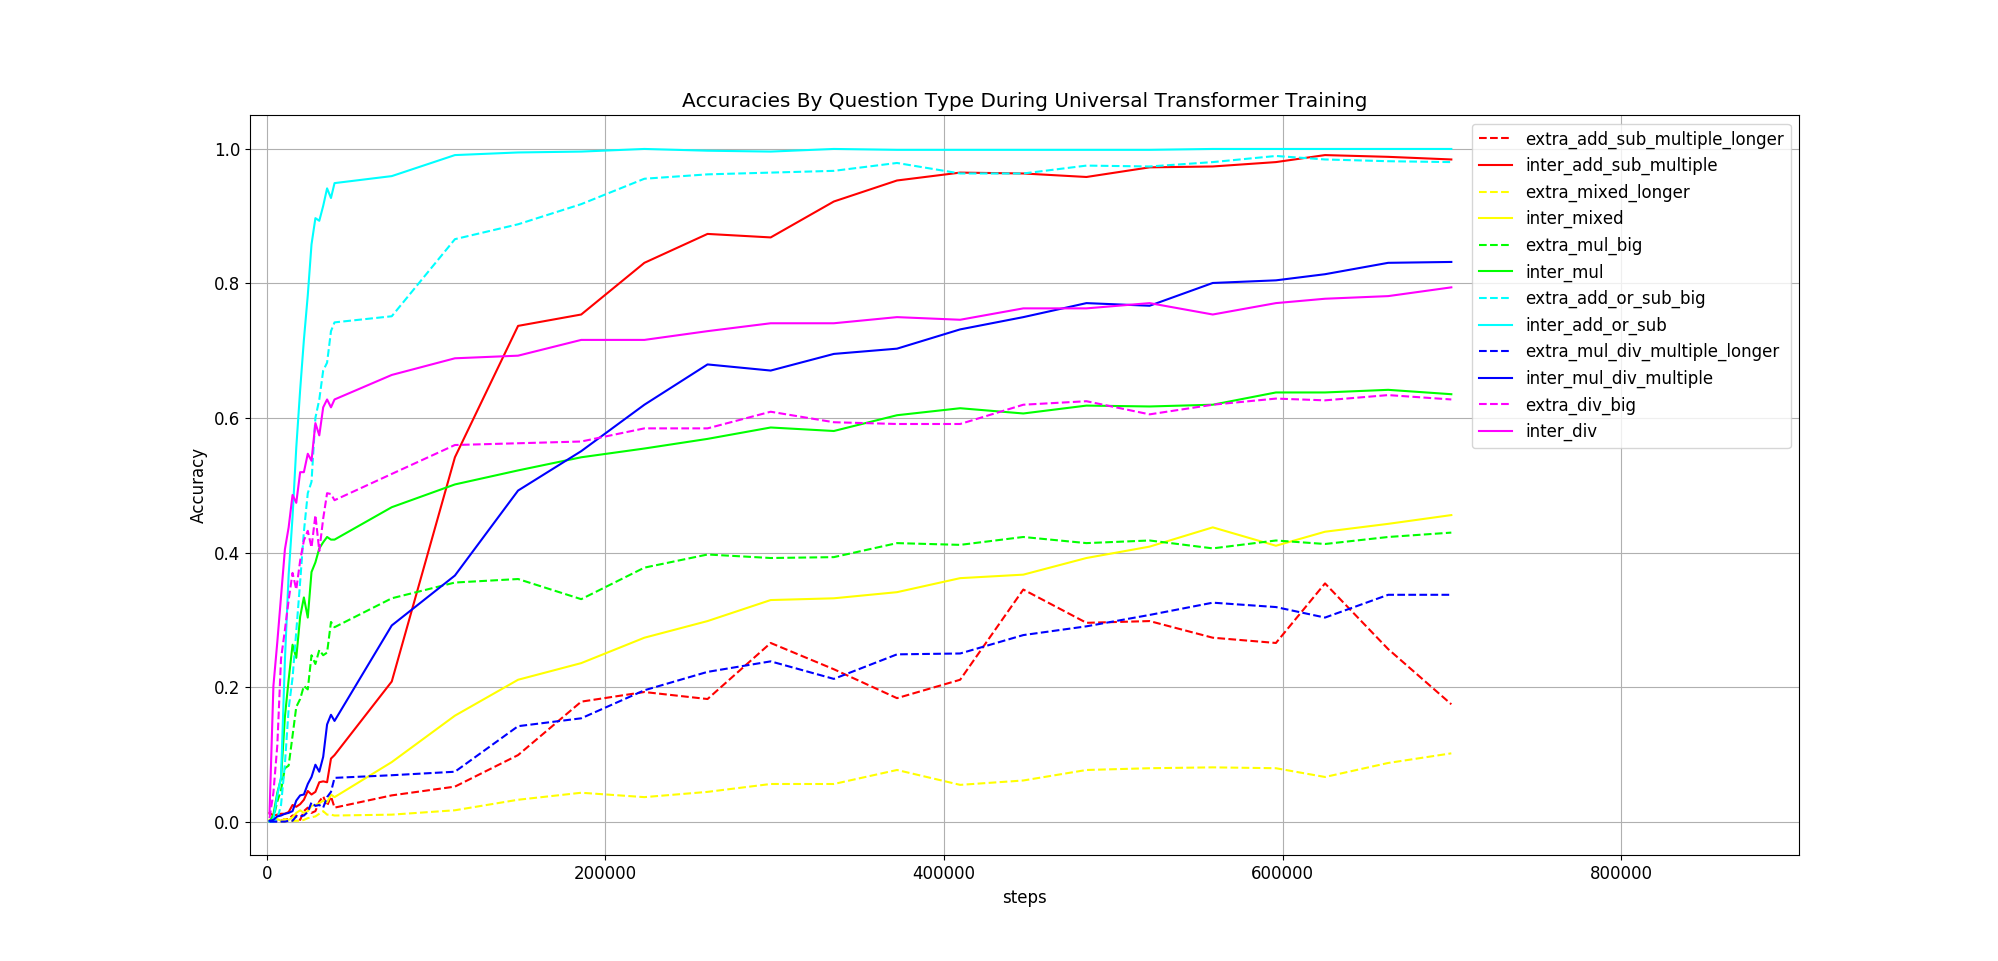
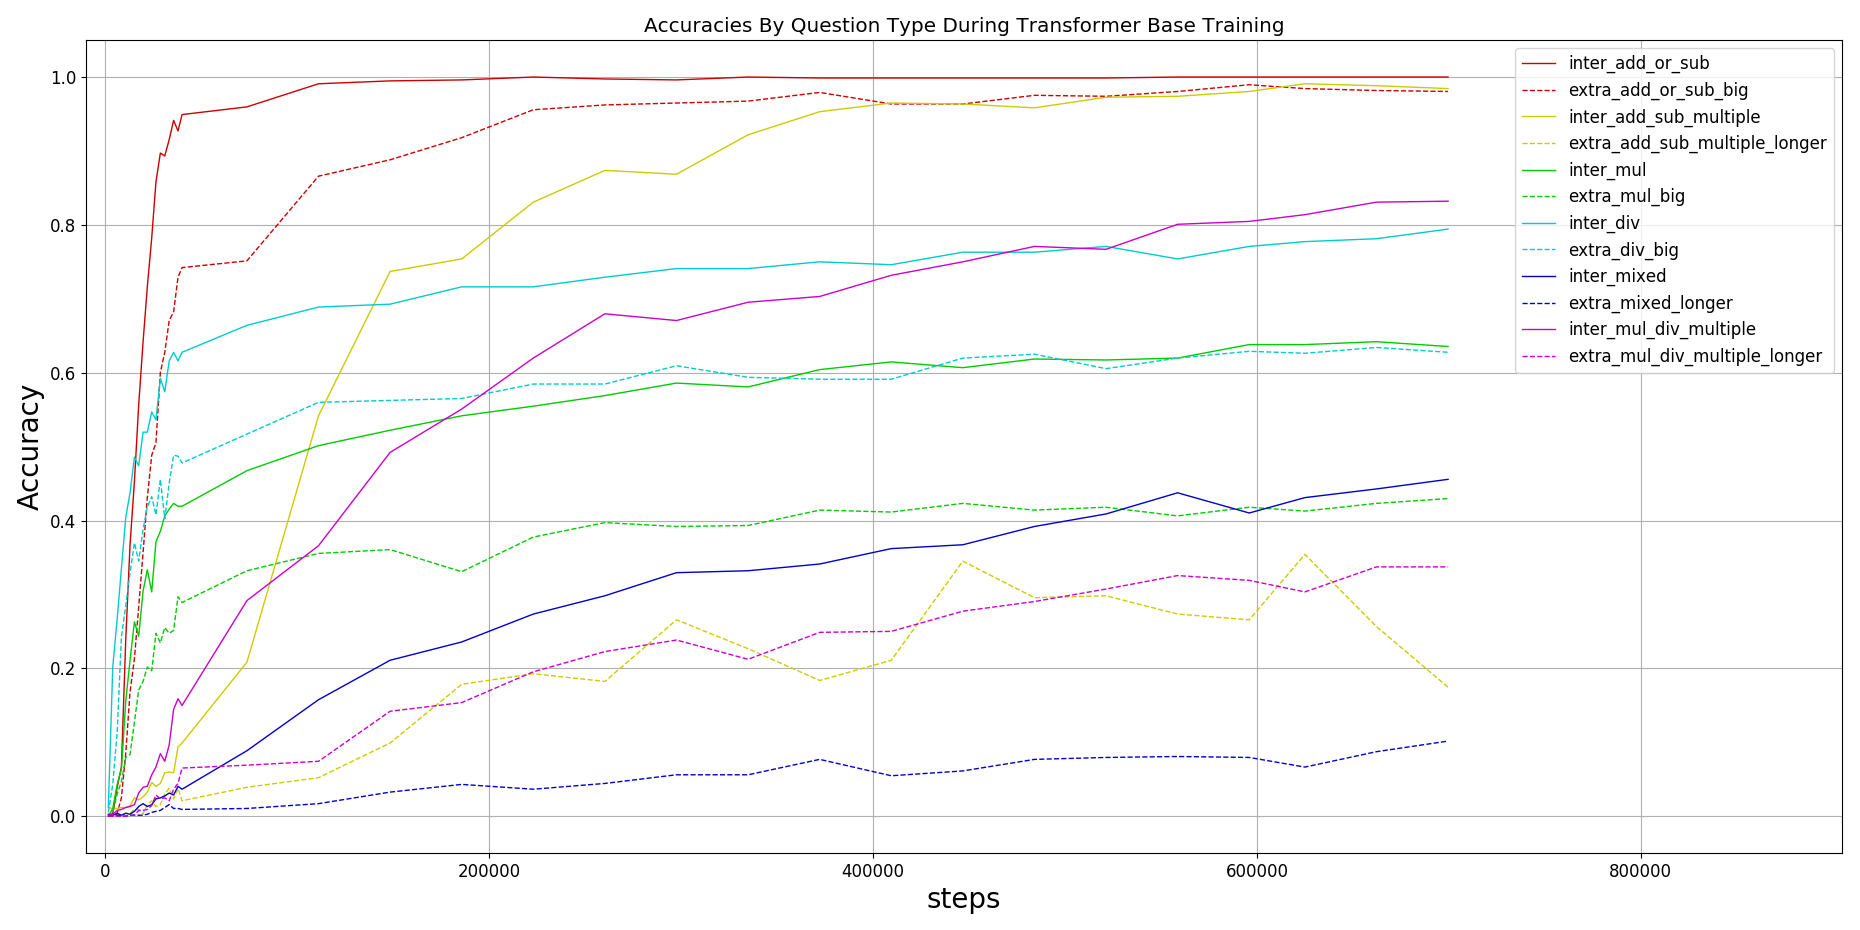
redone graphs

diff --git a/tensor2tensor/evaluation_results/read_and_plot_old.py b/tensor2tensor/evaluation_results/read_and_plot_old.py
@@ -45,6 +45,8 @@ dataset_splits_list = [
 	"extra_mixed_longer",			
 	"inter_mul_div_multiple",	
 	"extra_mul_div_multiple_longer",
+	# "single_inter",
+	# "single_extra",
 ]
 
 dataset_splits_dict = dict([(dataset_splits_list[i], i) for i in range(len(dataset_splits_list))])
@@ -71,11 +73,18 @@ class dataHolder:
 		self.labels_dict = labels_dict
 		self.dataset_splits_dict = dataset_splits_dict
 
-def decide_colours(items):
-	unique_cols = list(set(items))
-	col_gap = 1.0/len(unique_cols)
-	col_map = dict([(unique_cols[i], hsv_to_rgb([i*col_gap, 1.0, .6])) for i in range(len(unique_cols))])
-	return [col_map[i] for i in items]
+def decide_colours(items, doubleup=False):
+	if not doubleup:
+		unique_cols = list(set(items))
+		col_gap = 1.0/len(unique_cols)
+		col_map = dict([(unique_cols[i], hsv_to_rgb([i*col_gap, 1.0, .8])) for i in range(len(unique_cols))])
+		return [col_map[i] for i in items]
+	else:
+		unique_cols = list(set([i//2 for i in items]))
+		col_gap = 1.0/len(unique_cols)
+		col_map = dict([(unique_cols[i]*2, hsv_to_rgb([i*col_gap, 1.0, .8])) for i in range(len(unique_cols))])
+		col_map.update([(unique_cols[i]*2+1, hsv_to_rgb([i*col_gap, 1.0, .8])) for i in range(len(unique_cols))])
+		return [col_map[i] for i in items]
 
 def decide_width(items):
 	unique_cols = list(set(items))
@@ -119,9 +128,9 @@ def plot_against_difficulty(holder8,
 	arr5 = arr[:, -5, ia]
 	arr6 = arr[:, -6, ia]
 	# plt.plot(range(4), arr_bit[8:121
-	plt.plot(range(4), arr1[8:12], label="add_or_sub")
-	plt.plot(range(4), arr1[4:8], label="add_sub_multiple")
 	plt.plot(range(4), arr1[0:4], label="mul")
+	plt.plot(range(4), arr1[4:8], label="add_sub_multiple")
+	plt.plot(range(4), arr1[8:12], label="add_or_sub")
 	# # plt.plot(range(4), arr2[8:12], label="add_or_sub")
 	# plt.plot(range(4), arr2[4:8], label="add_su2b_multiple")
 	# # plt.plot(range(4), arr2[0:4], label="mul")
@@ -143,7 +152,7 @@ def plot_against_difficulty(holder8,
 	plt.rcParams["font.size"] = 12
 	plt.grid(which="major", axis="both")
 	plt.title(title)
-	plt.xlabel("difficulty", fontsize=font_size)
+	plt.xlabel("Difficulty", fontsize=font_size)
 	plt.ylabel(ylabel, fontsize=font_size)
 	plt.xticks(range(4), difficulties, rotation=0)
 	if ylim:
@@ -177,7 +186,7 @@ def plot_against_steps(models_and_dataset_splits,
 		linecolor_list = decide_colours(model_indicies)
 		linewidth_list = decide_width(dataset_split_indicies)
 	else:
-		linecolor_list = decide_colours(dataset_split_indicies)
+		linecolor_list = decide_colours(dataset_split_indicies, doubleup=True)
 		linewidth_list = decide_width(model_indicies)
 	for i in range(data_to_plot.shape[-1]):
 		if models_and_dataset_splits[i][1].startswith("extra"):
@@ -190,7 +199,7 @@ def plot_against_steps(models_and_dataset_splits,
 		x, y = data_to_plot[0, i], data_to_plot[1, i]
 		if flip:
 			x = np.flip(x)
-		plt.plot(x, y,
+		plt.plot([0]+x, [0]+y,
 			label=label,
 			linestyle=linestyle,
 			linewidth=linewidth,
@@ -216,8 +225,9 @@ def plot_against_steps(models_and_dataset_splits,
 def get_i(x):
 	if x in model_names_list:
 		return model_names_dict[x]
-	if x in [j for i in dataset_splits_list for j in i]:
+	if x in dataset_splits_list:
 		return dataset_splits_dict[x]
+	raise ValueError("No match for", x)
 index = np.vectorize(get_i)
 
 
